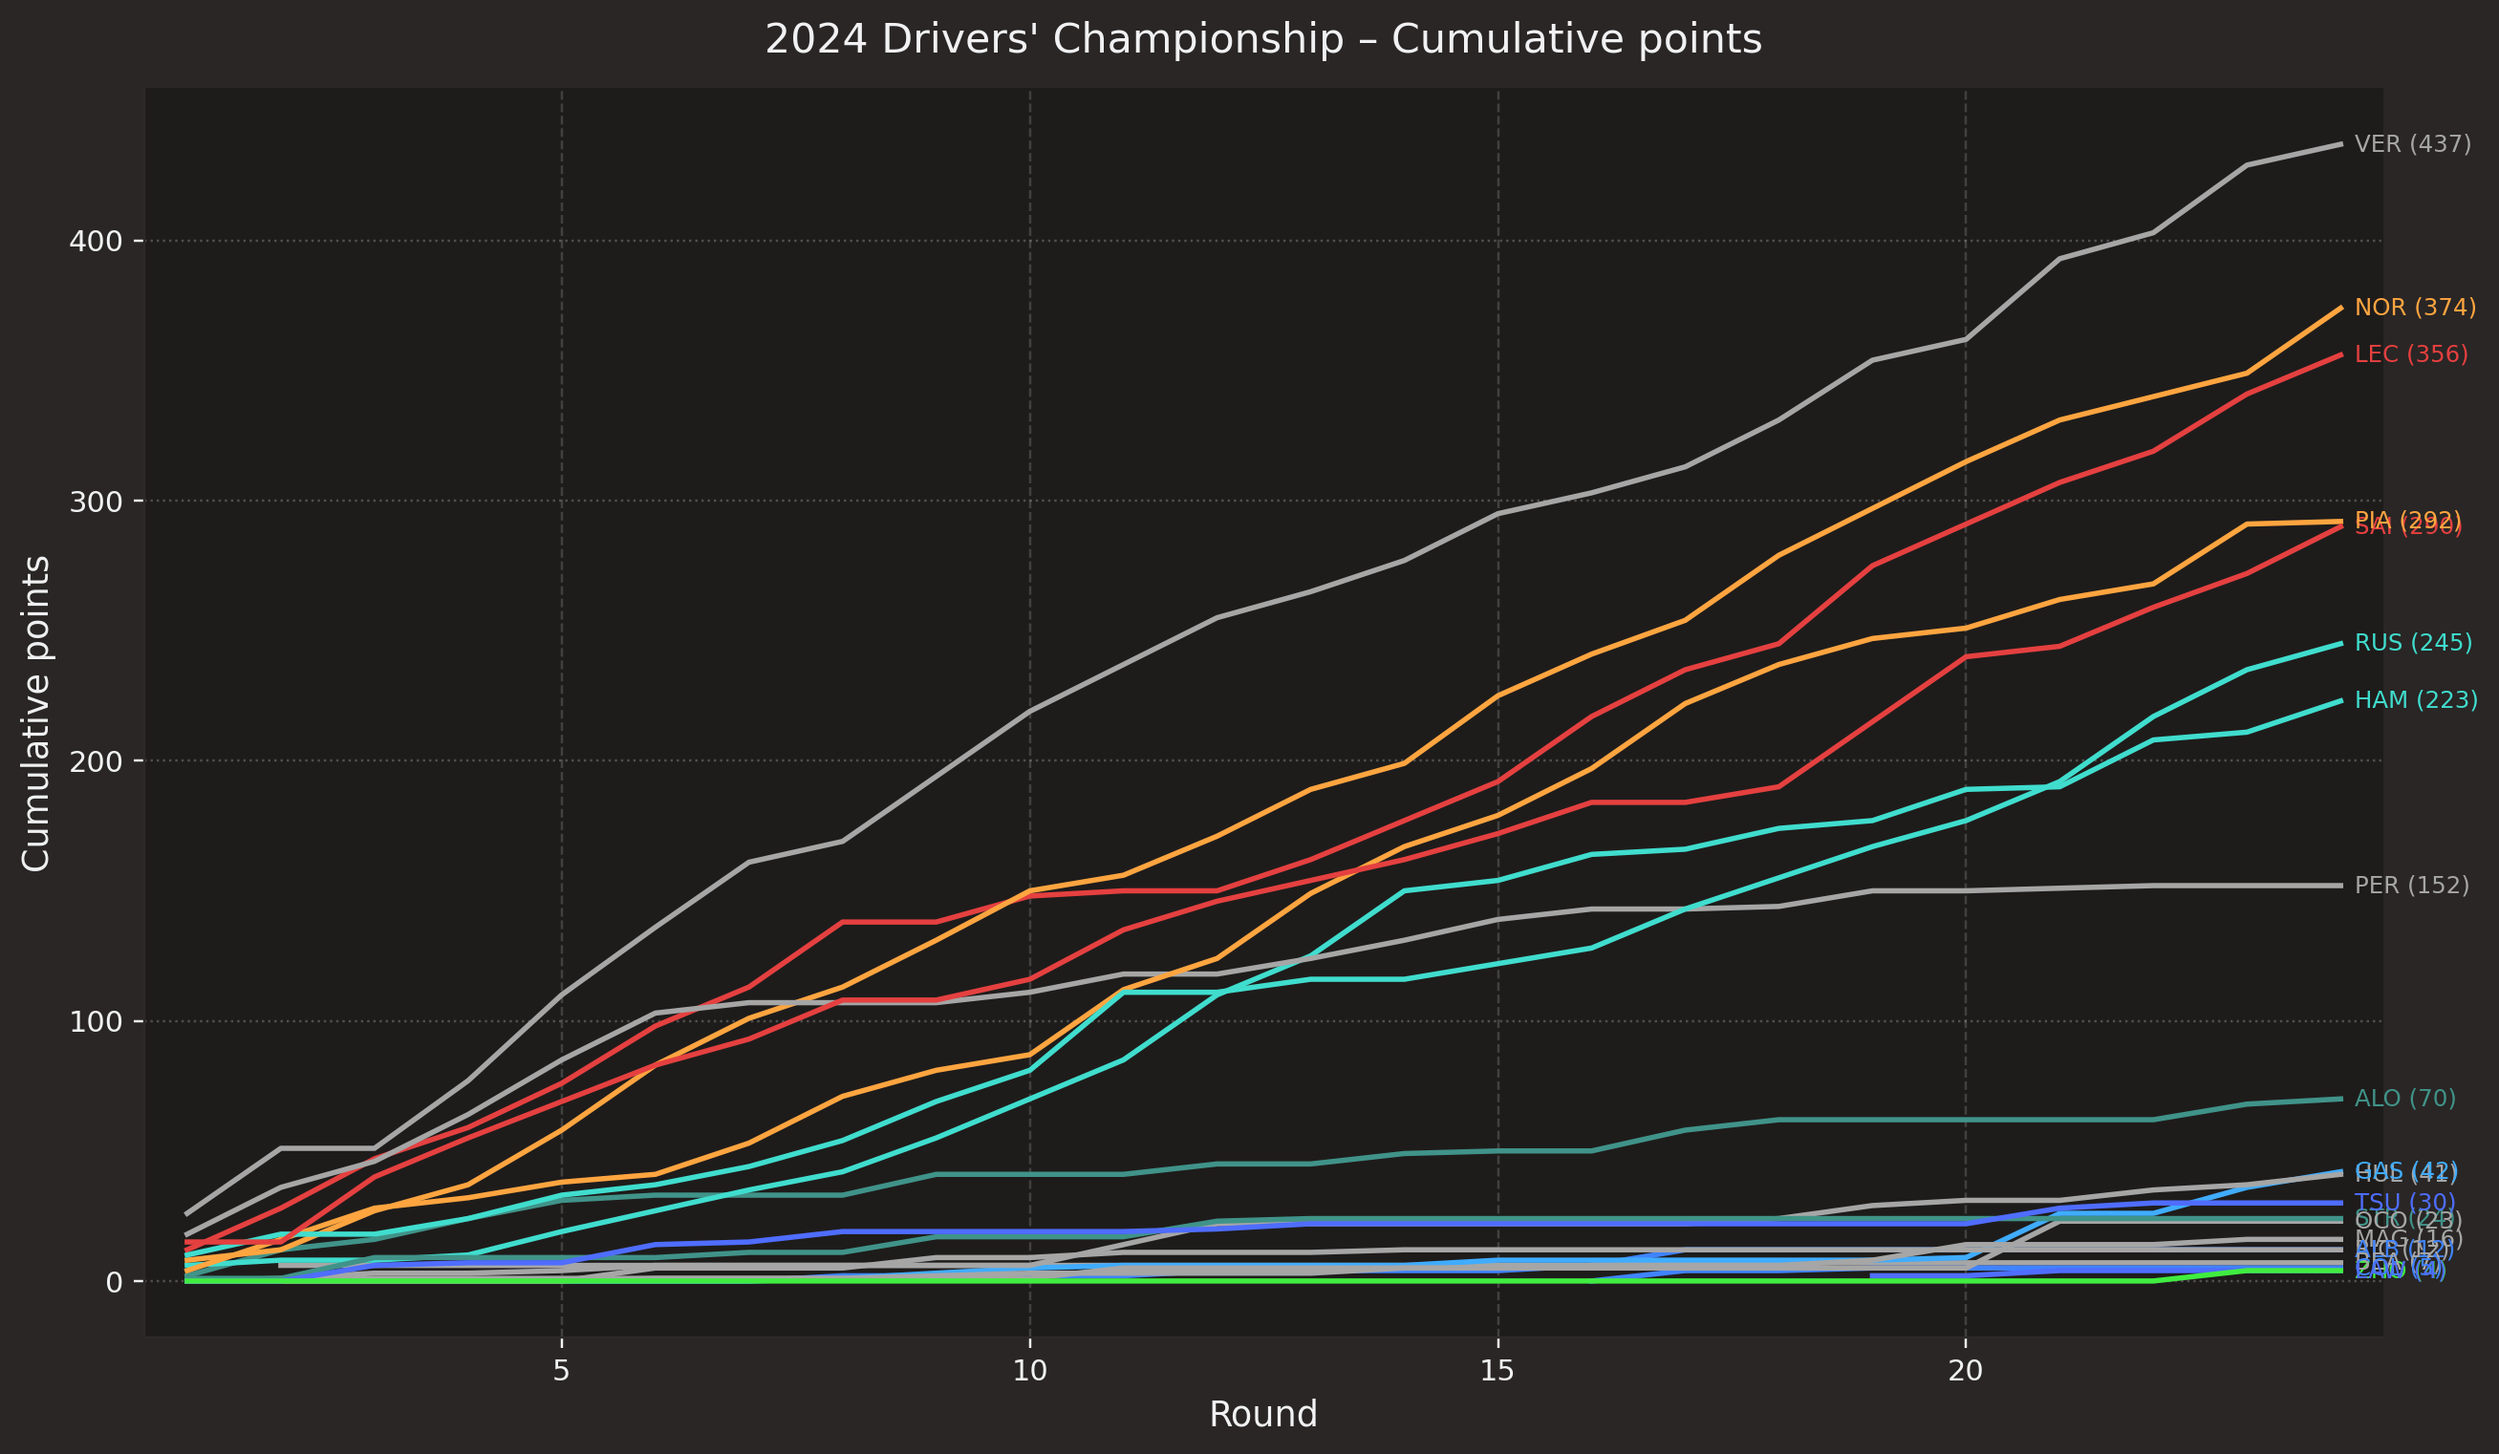
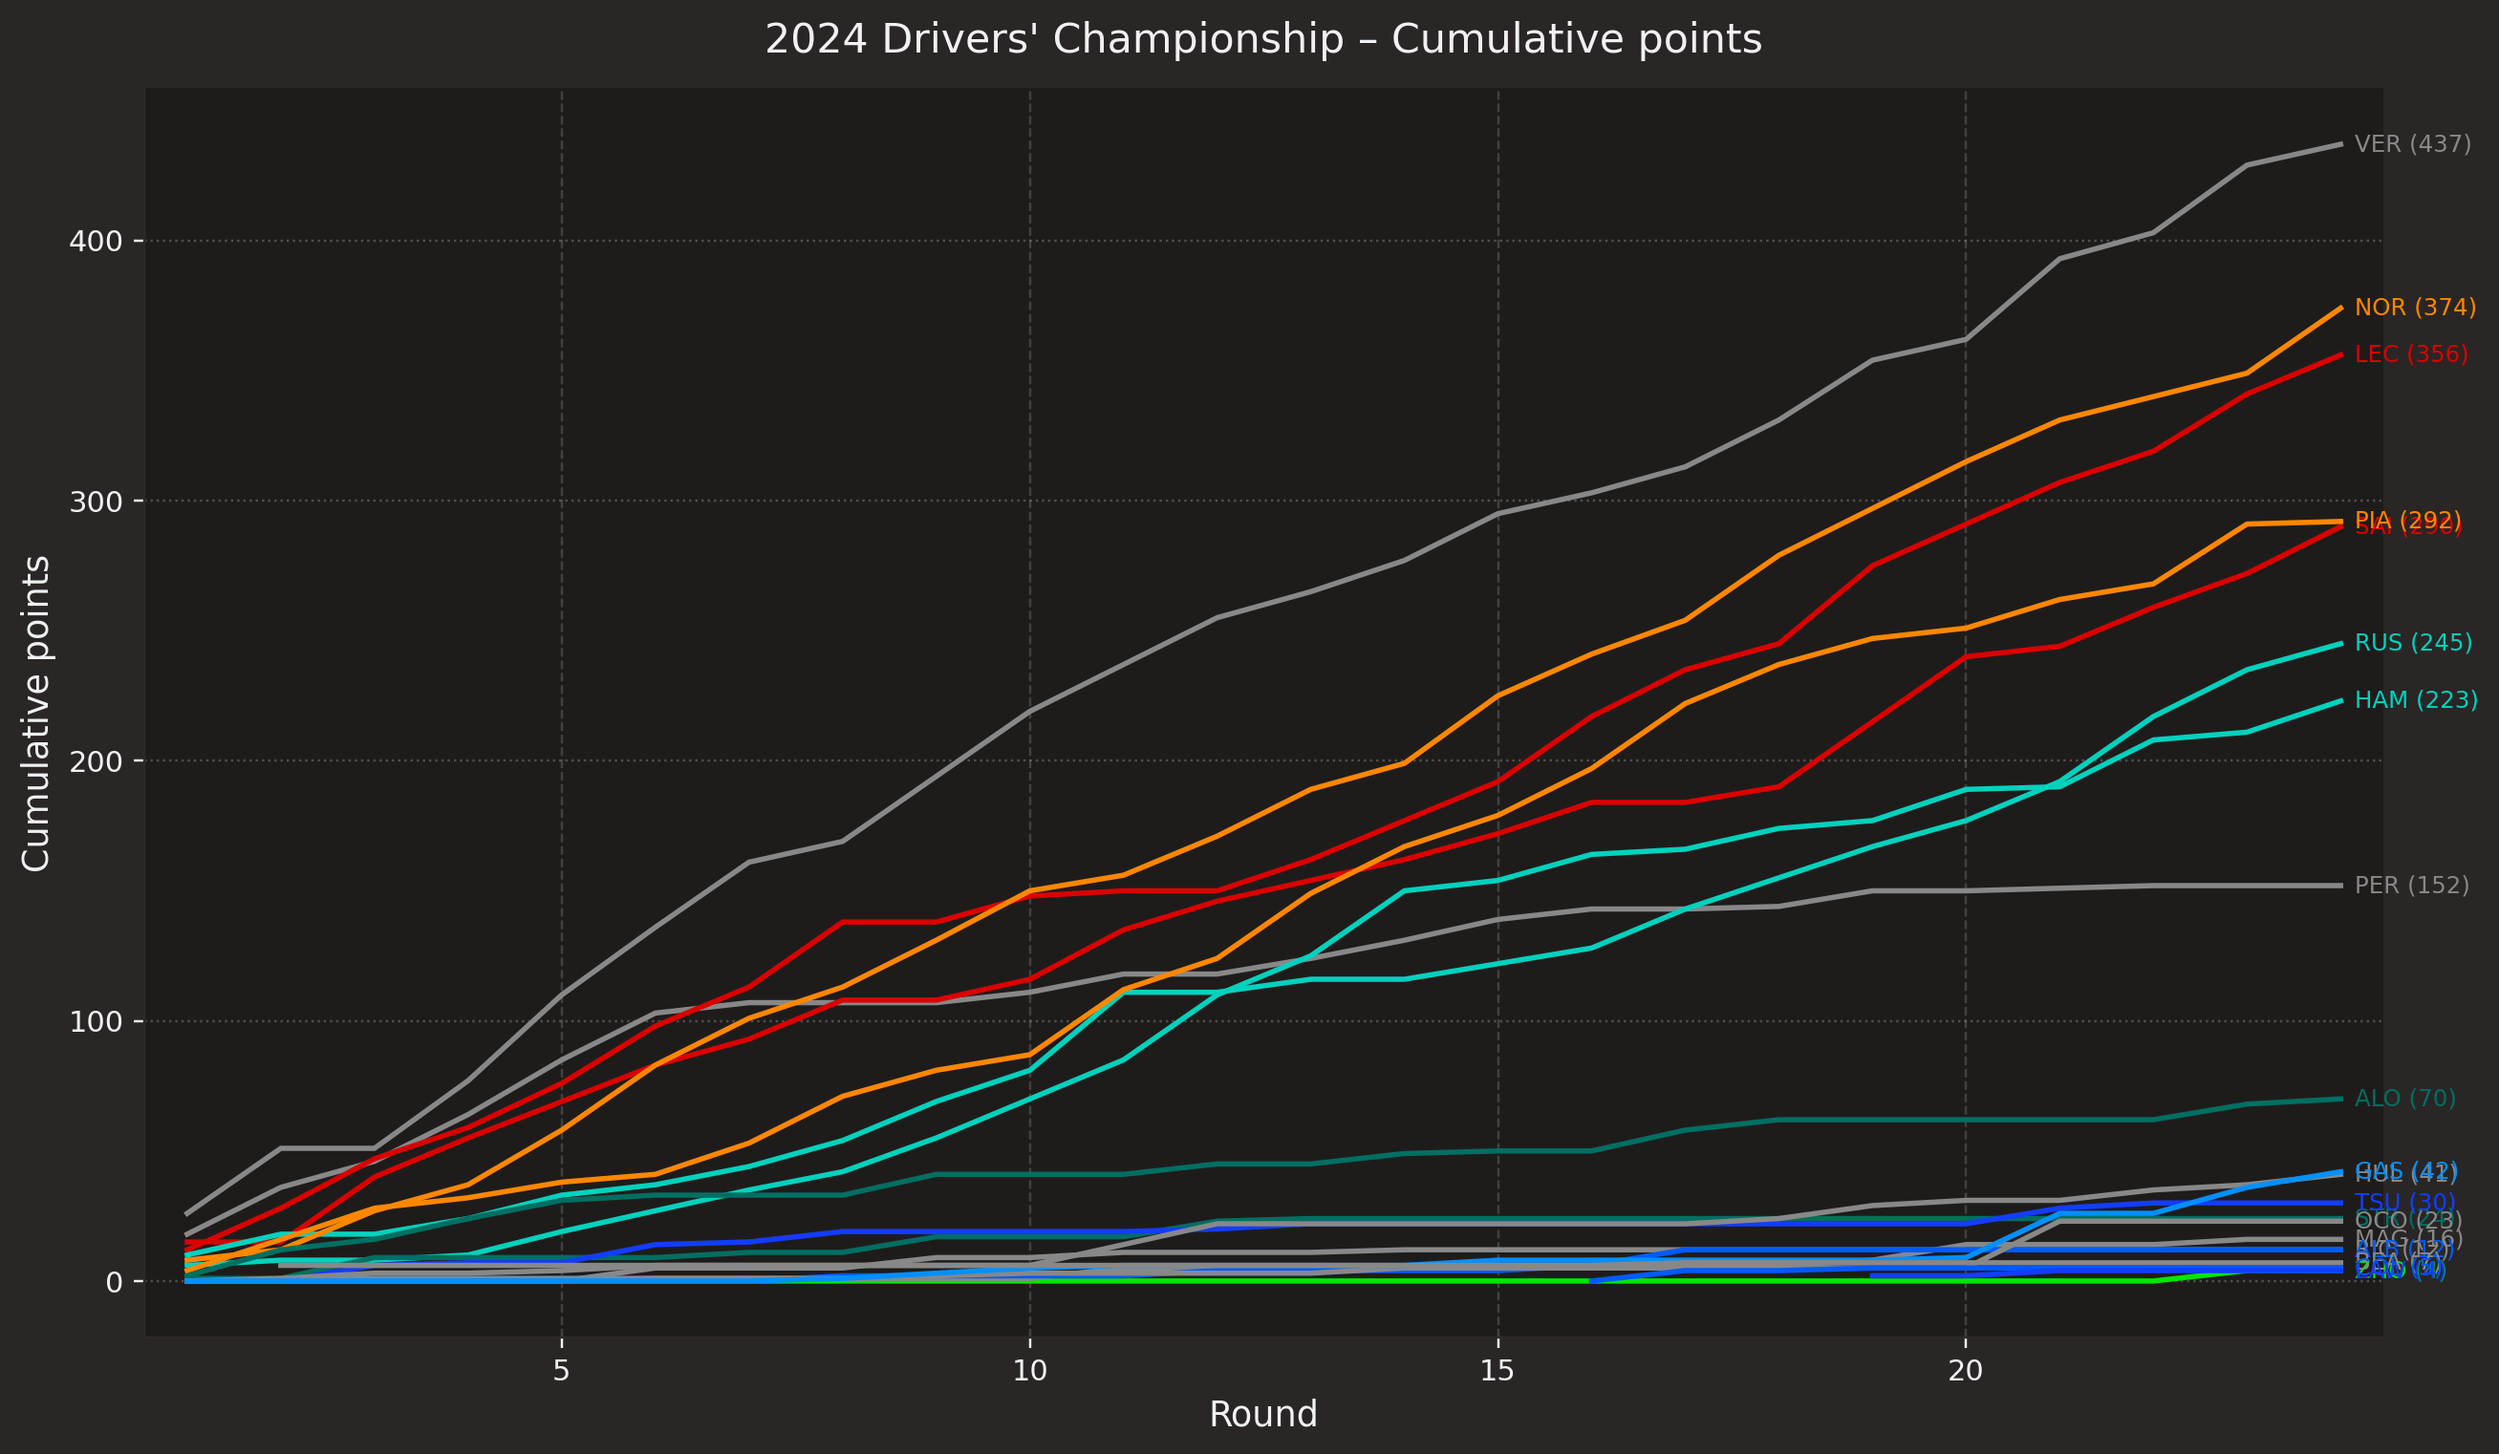
Update gallery documentation and source links for 2024 season charts (#13)
- Changed source links in the gallery documentation to point to the main branch.
- Updated parameters for the 2024 Drivers' Championship chart to use 'primary' color variant and a minimum total points threshold of 1.0.
- Adjusted YAML files to reflect the new parameter settings.
- Modified the generate_gallery script to ensure correct YAML file extensions are used.

diff --git a/tools/generate_gallery.py b/tools/generate_gallery.py
@@ -1,7 +1,6 @@
 from __future__ import annotations
 
 from pathlib import Path
-import subprocess
 import yaml
 from typing import Any
 
@@ -10,18 +9,6 @@ ASSETS_DIR = Path("docs/assets/gallery")
 BEGIN = "<!-- AUTO-GALLERY:BEGIN -->"
 END = "<!-- AUTO-GALLERY:END -->"
 REPO = "ksherr0/fastf1_portfolio"
-
-
-def _current_branch(default: str = "main") -> str:
-    """Return the current git branch, falling back to 'main'."""
-    try:
-        out = subprocess.check_output(["git", "rev-parse", "--abbrev-ref", "HEAD"]).decode().strip()
-        return out or default
-    except Exception:
-        return default
-
-
-BRANCH = _current_branch()
 
 
 def load_items() -> list[dict[str, Any]]:
@@ -42,7 +29,7 @@ def render_gallery(items: list[dict[str, Any]]) -> str:
         code_url = it.get("code_url", "")
         # Build a GitHub URL if only code_path is present
         if not code_url and code:
-            code_url = f"https://github.com/{REPO}/blob/{BRANCH}/{str(code).replace('\\\\','/')}"
+            code_url = f"https://github.com/{REPO}/blob/main/{str(code).replace('\\\\','/')}"
         params = it.get("params", {})
         # Compact param preview
         ppreview = ", ".join(f"{k}={v}" for k, v in params.items())

diff --git a/tools/plots/tyre_strategy.py b/tools/plots/tyre_strategy.py
@@ -37,7 +37,7 @@ def main() -> None:
     outdir.mkdir(parents=True, exist_ok=True)
     s = slug(args.year, session.event["EventName"])
     png = outdir / f"{s}_tyre_strategy.png"
-    yml = outdir / f"{s}_tyre_strategy.yml"
+    yml = outdir / f"{s}_tyre_strategy.yaml"
 
     params = TyreStrategyParams(
         driver_order=order, title=args.title, dpi=args.dpi, annotate_compound=True

diff --git a/tools/plots/driver_championship.py b/tools/plots/driver_championship.py
@@ -104,7 +104,7 @@ def main() -> None:
     points_cum = _season_points_table(args.year, args.include_sprints, cache=args.cache)
 
     png = outdir / f"{_slug(args.year)}.png"
-    yml = outdir / f"{_slug(args.year)}.yml"
+    yml = outdir / f"{_slug(args.year)}.yaml"
 
     params = DriverPointsParams(
         color_variant=args.color_variant,

diff --git a/tools/plots/drs_effectiveness.py b/tools/plots/drs_effectiveness.py
@@ -49,7 +49,7 @@ def main() -> None:
 
     slug = _slug(args.year, args.event, args.driver)
     png = outdir / f"{slug}.png"
-    yml = outdir / f"{slug}.yml"
+    yml = outdir / f"{slug}.yaml"
 
     build_drs_effectiveness_distance(
         session,

diff --git a/docs/gallery.md b/docs/gallery.md
@@ -11,15 +11,15 @@ and a YAML sidecar under `docs/assets/gallery/`.
   [![2024 Drivers' Championship – Cumulative points](assets/gallery/2024_drivers_championship_points.png){ loading=lazy }](assets/gallery/2024_drivers_championship_points.png){ .glightbox }
   _Total points by race (lines per driver)_
 
-  `Source:` [tools/plots/driver_championship.py](https://github.com/ksherr0/fastf1_portfolio/blob/feat/time-in-first/tools/plots/driver_championship.py)  
-  `Params:` `year=2024, include_sprints=True, color_variant=secondary, min_total_points=0.0, dpi=220`
+  `Source:` [tools/plots/driver_championship.py](https://github.com/ksherr0/fastf1_portfolio/blob/main/tools/plots/driver_championship.py)  
+  `Params:` `year=2024, include_sprints=True, color_variant=primary, min_total_points=1.0, dpi=220`
 
 - :material-chart-bar: **2024 Time Spent Leading – Cumulative**
   ---
   [![2024 Time Spent Leading – Cumulative](assets/gallery/2024_drivers_time_in_first.png){ loading=lazy }](assets/gallery/2024_drivers_time_in_first.png){ .glightbox }
   _Cumulative minutes led by race (lines per driver)_
 
-  `Source:` [tools/plots/time_in_first.py](https://github.com/ksherr0/fastf1_portfolio/blob/feat/time-in-first/tools/plots/time_in_first.py)  
+  `Source:` [tools/plots/time_in_first.py](https://github.com/ksherr0/fastf1_portfolio/blob/main/tools/plots/time_in_first.py)  
   `Params:` `year=2024, color_variant=primary, min_total_time=30.0, dpi=220`
 
 - :material-chart-bar: **2025 Italian Grand Prix – DRS effect on main straight (VER)**
@@ -27,7 +27,7 @@ and a YAML sidecar under `docs/assets/gallery/`.
   [![2025 Italian Grand Prix – DRS effect on main straight (VER)](assets/gallery/italian_grand_prix_2025_drs_effect_VER.png){ loading=lazy }](assets/gallery/italian_grand_prix_2025_drs_effect_VER.png){ .glightbox }
   _Median speed traces along main straight (DRS ON/OFF)_
 
-  `Source:` [tools/plots/drs_effectiveness.py](https://github.com/ksherr0/fastf1_portfolio/blob/feat/time-in-first/tools/plots/drs_effectiveness.py)  
+  `Source:` [tools/plots/drs_effectiveness.py](https://github.com/ksherr0/fastf1_portfolio/blob/main/tools/plots/drs_effectiveness.py)  
   `Params:` `year=2025, event=Italian Grand Prix, session=R, driver=VER, n_points=200, accel_threshold_kmh_s=-8.0, sustain_sec=0.3`
 
 - :material-chart-bar: **2025 Italian Grand Prix – Tyre Strategy**
@@ -35,7 +35,7 @@ and a YAML sidecar under `docs/assets/gallery/`.
   [![2025 Italian Grand Prix – Tyre Strategy](assets/gallery/italian_grand_prix_2025_tyre_strategy.png){ loading=lazy }](assets/gallery/italian_grand_prix_2025_tyre_strategy.png){ .glightbox }
   _Stints and compounds by driver_
 
-  `Source:` [tools/plots/tyre_strategy.py](https://github.com/ksherr0/fastf1_portfolio/blob/feat/time-in-first/tools/plots/tyre_strategy.py)  
+  `Source:` [tools/plots/tyre_strategy.py](https://github.com/ksherr0/fastf1_portfolio/blob/main/tools/plots/tyre_strategy.py)  
   `Params:` `driver_order=results, bar_height=0.6, bar_gap=0.35, annotate_compound=True, dpi=220`
 
 </div>
